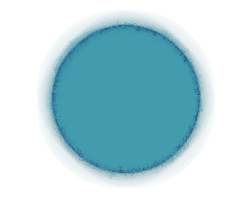
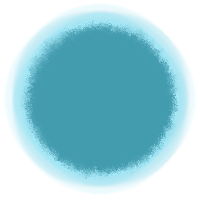
Use neutron image

diff --git a/game.js b/game.js
@@ -452,10 +452,14 @@ class Ball {
 
     push();
 
-    // TODO: display image
-    stroke(0);
-    fill(255);
-    circle(this.position.x, this.position.y, ballRadius * 2);
+    imageMode(CENTER);
+    image(
+      ballImage,
+      this.position.x,
+      this.position.y,
+      ballRadius * 2,
+      ballRadius * 2
+    );
 
     pop();
   }
@@ -644,13 +648,11 @@ class Game {
     } else if (state === "ingame") {
       comradeCam.style.display = "block"; // Unhide the comrade
       comradeImage = "assets/dyatlov_stare.gif";
-      if(this.healthMeter.health < 50) {
+      if (this.healthMeter.health < 50) {
         comradeImage = "assets/dyatlov_injured.gif";
-      }
-      else if(this.healthMeter.health < 150){
+      } else if (this.healthMeter.health < 150) {
         comradeImage = "assets/dyatlov_stare.gif";
-      }
-      else{
+      } else {
         comradeImage = "assets/dyatlov_win.gif";
       }
       comradeCam.style.backgroundImage = "url(" + comradeImage.toString() + ")";
